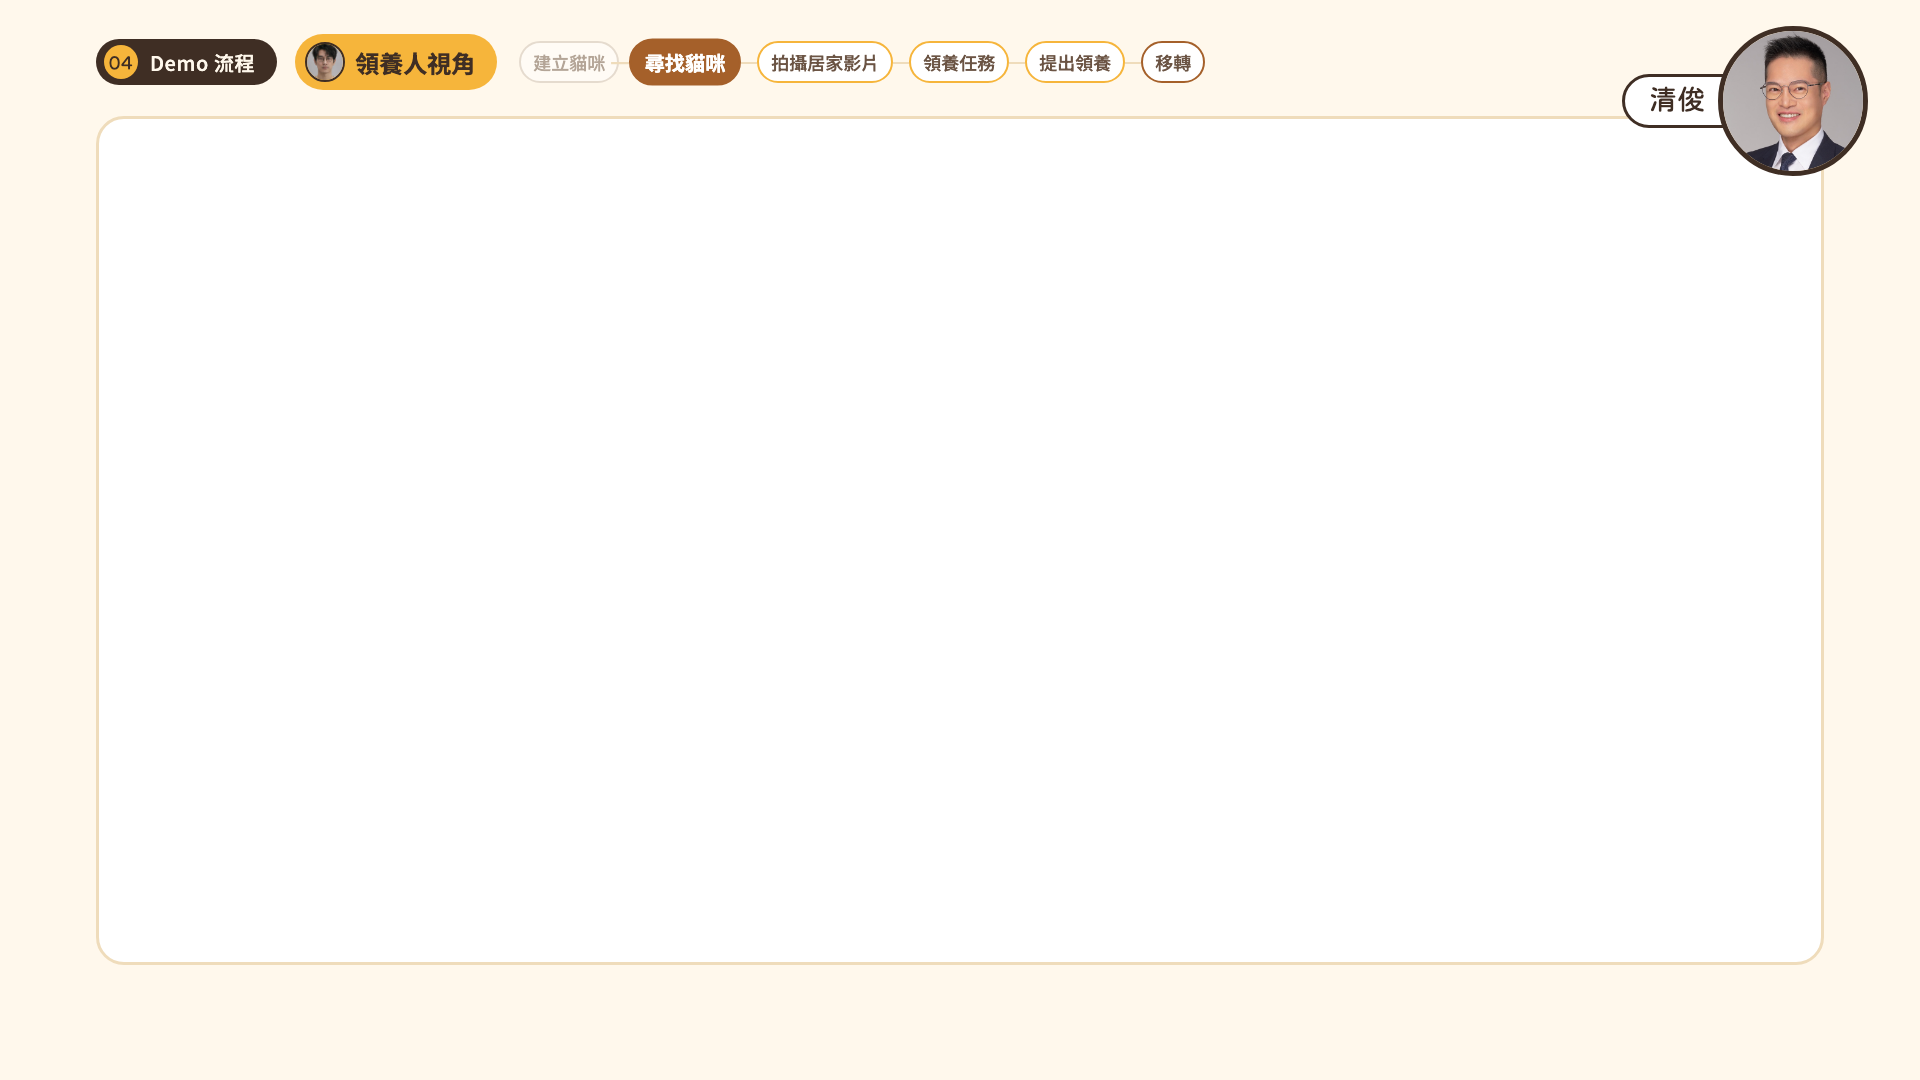
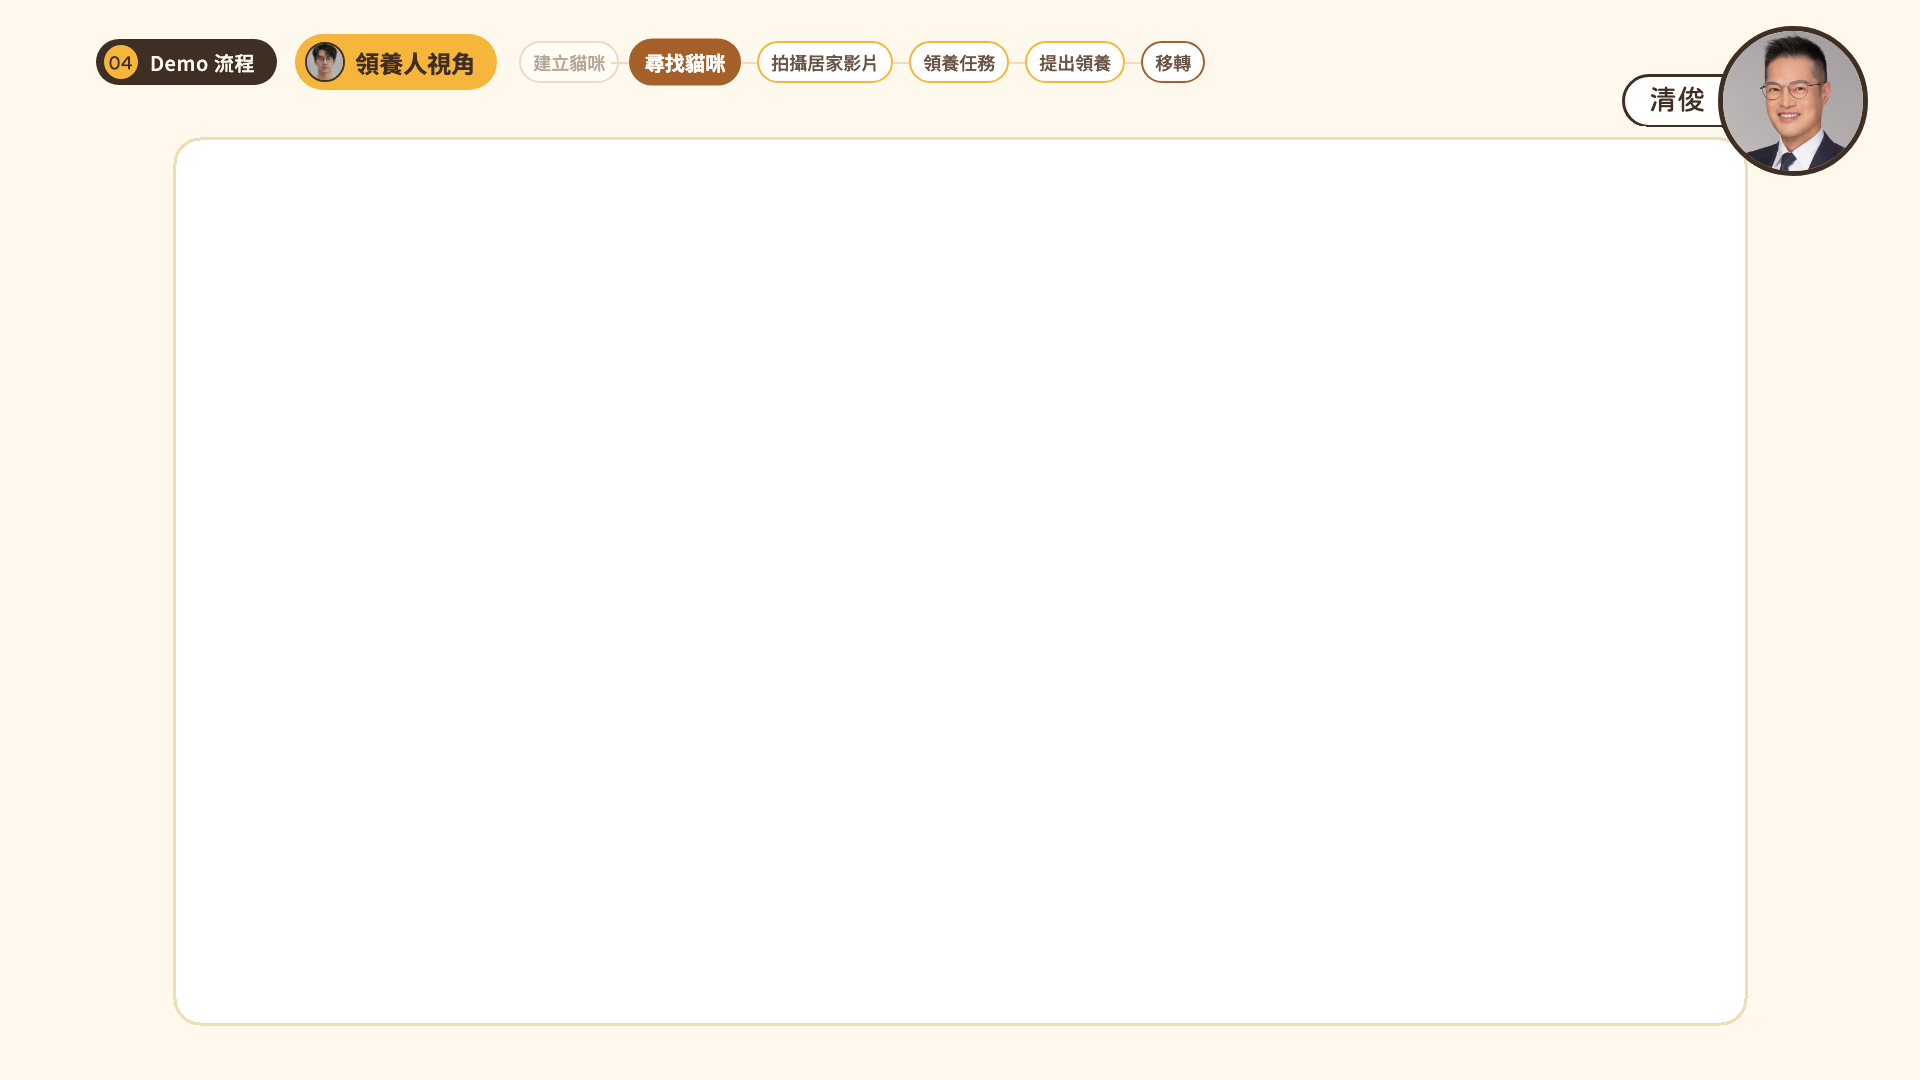
feat(slides): OBS 畫面改成 16:9 透明窗格

Changed region(s): [[0.9062, 0.8861, 0.9375, 0.9167], [0.0625, 0.8861, 0.0938, 0.9167]]

diff --git a/docs/slides/final-1126/Meowho_成果報告_1126.html b/docs/slides/final-1126/Meowho_成果報告_1126.html
@@ -995,7 +995,7 @@ h2{top:100px;font-size:48px}
 .end .sub{top:662px}
 .end .vet{bottom:auto;top:740px}
 /* OBS 錄影畫面：整頁圖片（11/27） */
-.slide.obs{padding:0}
+.slide.obs{padding:0;background:#fff}
 .slide.obs .obs-img{position:absolute;inset:0;width:100%;height:100%;object-fit:cover;display:block}
 </style>
 </head>

diff --git a/docs/slides/final-1126/_src/extra.css b/docs/slides/final-1126/_src/extra.css
@@ -781,5 +781,5 @@ h2{top:100px;font-size:48px}
 .end .sub{top:662px}
 .end .vet{bottom:auto;top:740px}
 /* OBS 錄影畫面：整頁圖片（11/27） */
-.slide.obs{padding:0}
+.slide.obs{padding:0;background:#fff}
 .slide.obs .obs-img{position:absolute;inset:0;width:100%;height:100%;object-fit:cover;display:block}

diff --git a/docs/slides/final-1126/README.md b/docs/slides/final-1126/README.md
@@ -7,5 +7,5 @@
 - 每頁講者用 `<!--SPK:名字-->` 標記，頭像在 `assets/avatars/名字.jpg`；Demo 頁左上的身分與進度列用 `<!--DEMO:n-->` 產生
 - 第 4 頁前導影片 `assets/video/trailer_part34.mp4`（52 MB）不進 git，向子哲索取後放進 `assets/video/`；3D 貓、3D 房間循環影片（`cat3d.mp4`、`room3d.mp4`）有進 git
 - 目前 23 頁（頁碼從 Agenda 算起）；3D 貓是第 9 頁（Tina），3D 房間是第 12、13 頁（珮瑜），居家安全檢測是第 14、15 頁（世安），領養任務是第 16～20 頁（渝茜），第 16 頁是三大核心理念
-- Demo 段另插 6 張 OBS 錄影畫面（`assets/obs/`，`<section class="slide obs">`），整頁圖片、不加講者、不算頁碼：中途建貓後接 01 子哲、02 Tina；換成領養人與地圖之間接 03 清俊；地圖後接 04 珮瑜；3D 房間設計後接 04 珮瑜；安全檢測兩頁之間接 05 世安
+- Demo 段另插 6 張 OBS 錄影畫面（`assets/obs/`，`<section class="slide obs">`），整頁圖片（中間 1568×882 的 16:9 窗格透明，OBS 可把錄影畫面疊在下面）、不加講者、不算頁碼：中途建貓後接 01 子哲、02 Tina；換成領養人與地圖之間接 03 清俊；地圖後接 04 珮瑜；3D 房間設計後接 04 珮瑜；安全檢測兩頁之間接 05 世安
 - 規則：不用 emoji、不放附註小字；用語照 `GLOSSARY.md`
